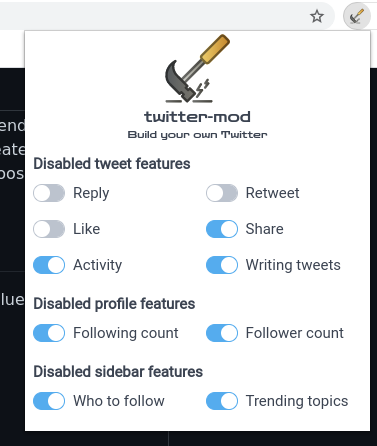
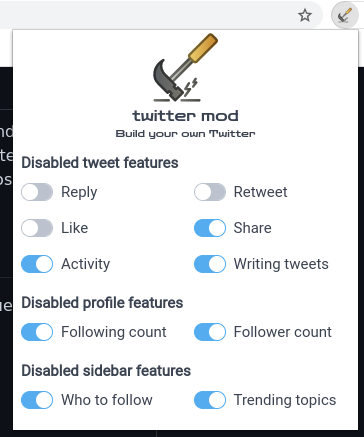
update title to "twitter mod"

diff --git a/src/html/settings-page.html b/src/html/settings-page.html
@@ -13,7 +13,7 @@
             <img src="/images/icon128.svg" width=75 height=75>
           </div>
           <div class="column col-12 text-center">
-            twitter-mod
+            twitter mod
             <br>
             <span class='small'>Build your own Twitter</span>
           </div>
